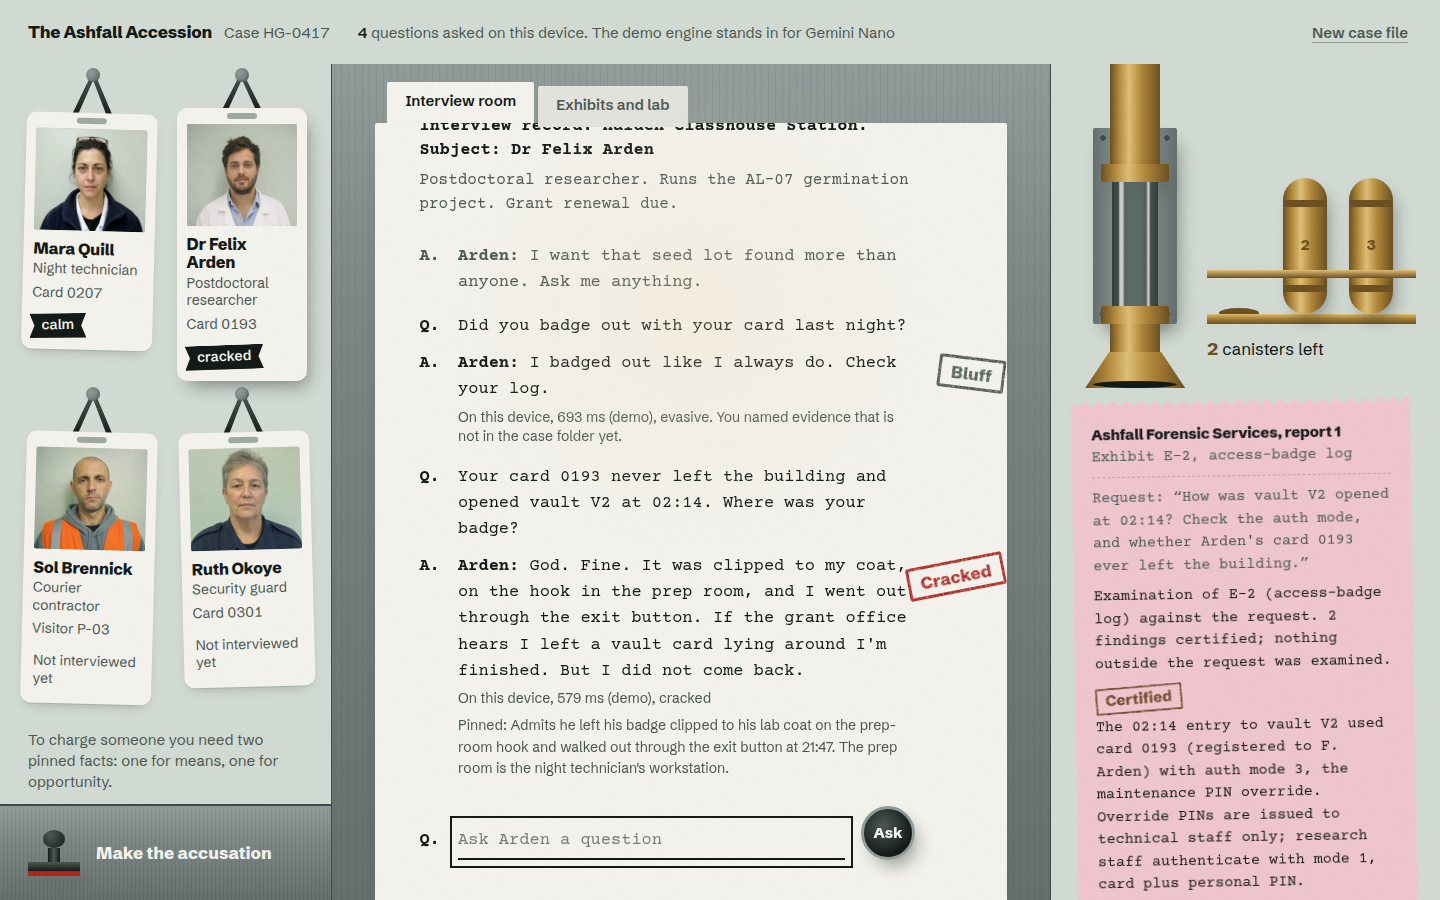
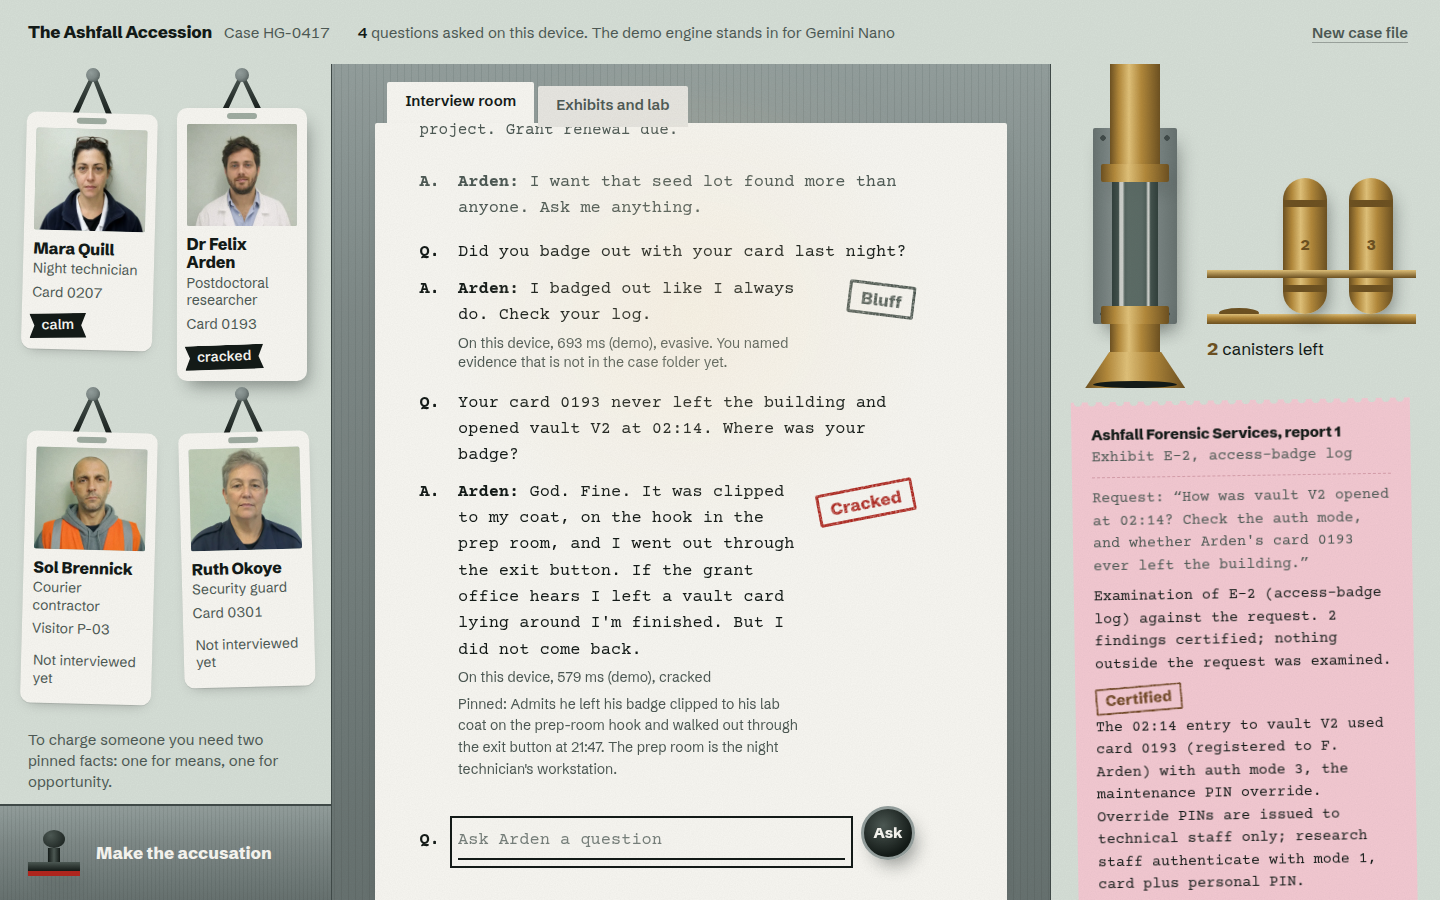
Keep margin stamps clear of the transcript text

Changed region(s): [[0.2812, 0.28, 0.7188, 0.8711], [0.2812, 0.1244, 0.625, 0.2489], [0.6562, 0.3733, 0.7188, 0.4356]]

diff --git a/src/styles/app.css b/src/styles/app.css
@@ -657,10 +657,13 @@
 }
 
 /* Stamps in the right margin of the sheet */
+.msg:has(> .stamp--margin) {
+  padding-right: 6.5rem;
+}
 .stamp--margin {
   position: absolute;
   top: 6px;
-  right: -90px;
+  right: 0;
   rotate: -11deg;
   font-size: 1.0625rem;
   padding: 3px 10px;
@@ -2353,15 +2356,12 @@
   .msg {
     padding-right: 0;
   }
-  .stamp--margin {
-    position: static;
-    grid-column: 2;
-    justify-self: end;
-    margin: -10px -4px -16px 0;
-    font-size: var(--fs-label);
+  .msg:has(> .stamp--margin) {
+    padding-right: 4.75rem;
   }
-  .msg > .stamp--margin {
-    grid-column: 2;
+  .stamp--margin {
+    top: 2px;
+    font-size: var(--fs-label);
   }
   .line {
     font-size: 1rem;
